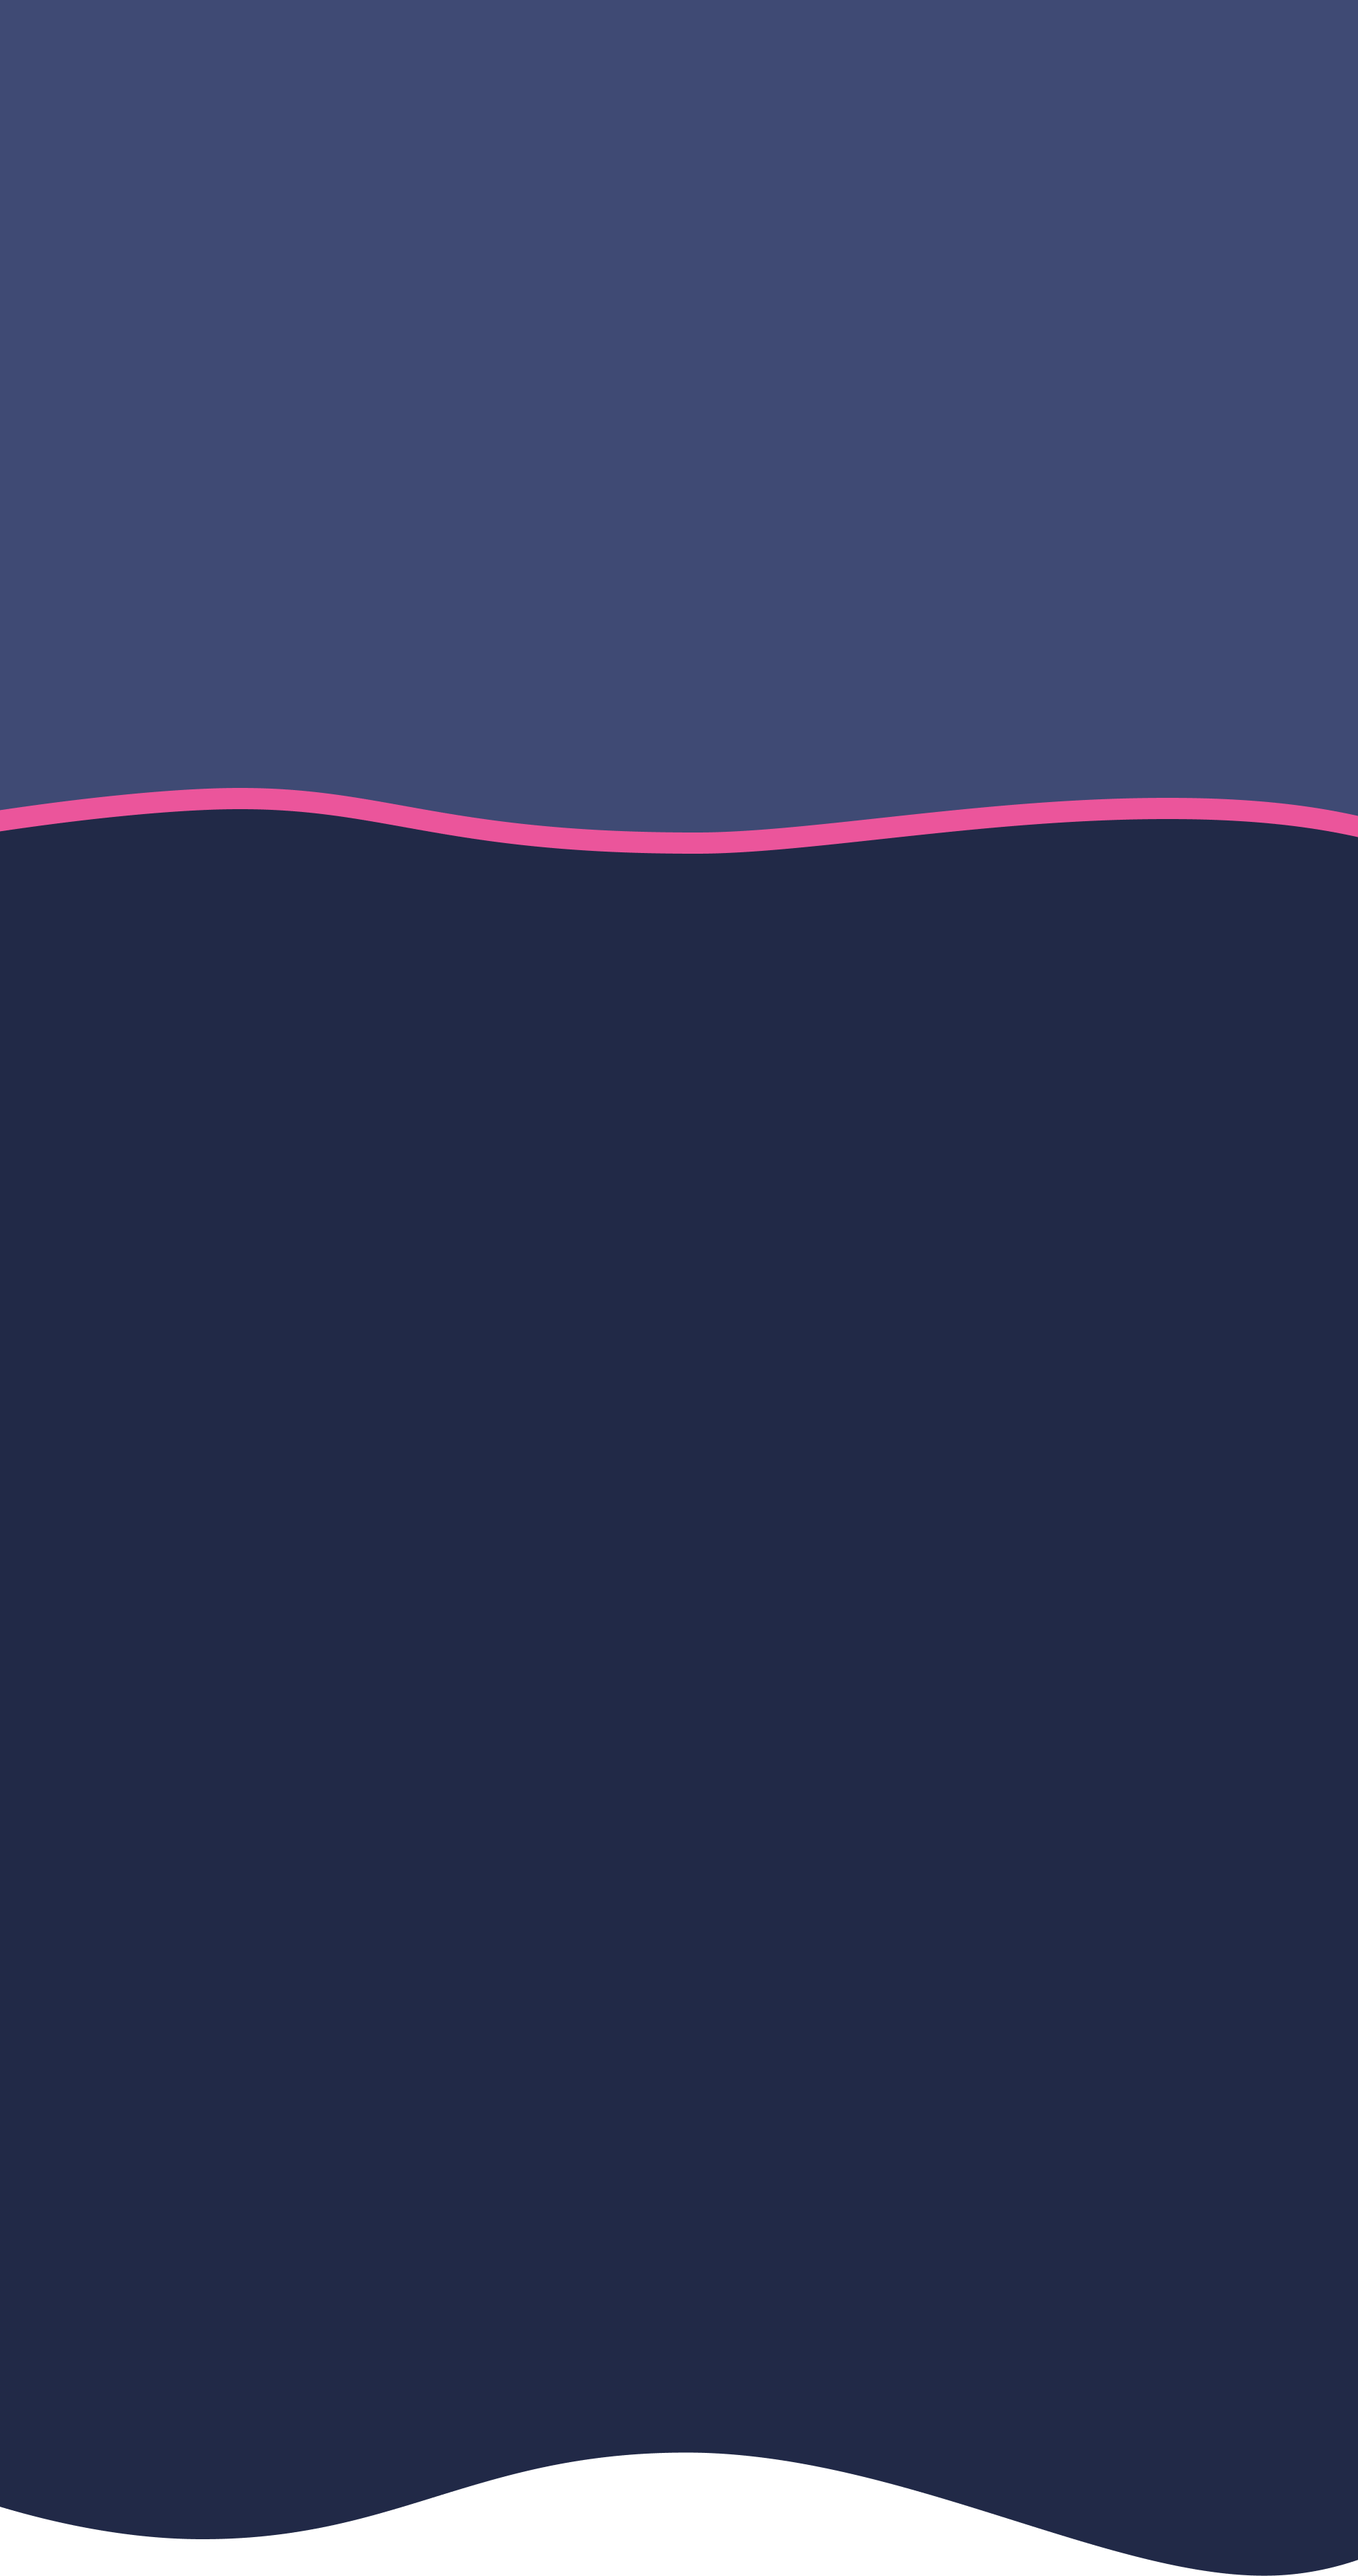
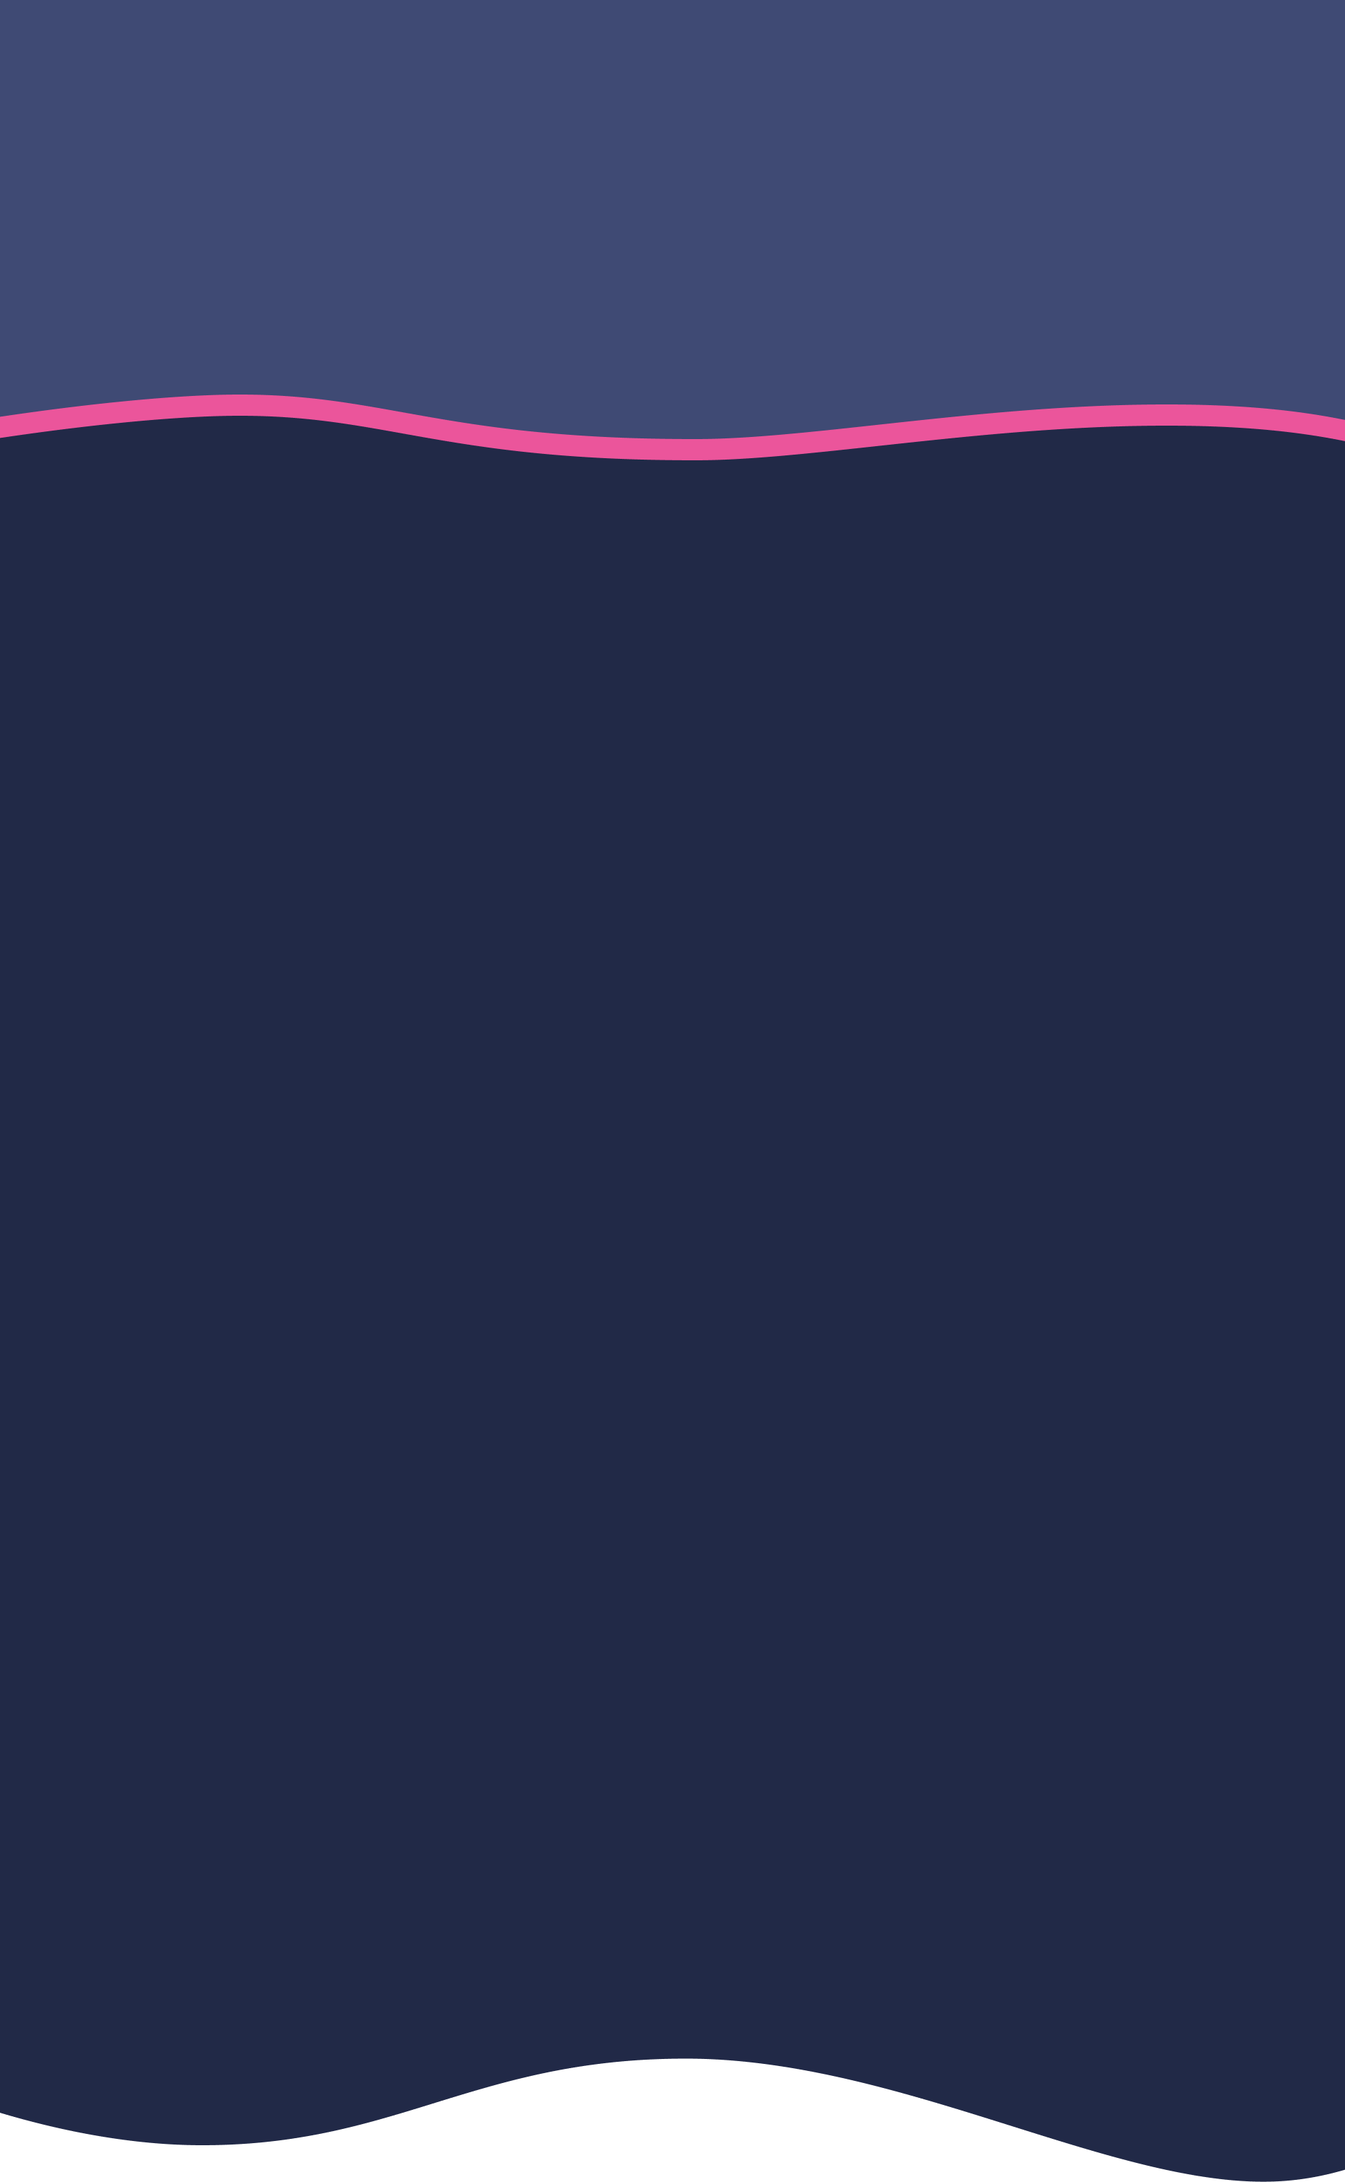
Landing Page almost finessed...
needs work on track overlay, responsiveness, and new buttons

diff --git a/frontend/src/app/landing-page/landing-page.component.html b/frontend/src/app/landing-page/landing-page.component.html
@@ -1,36 +1,45 @@
 <section class="section1">
   <div class="col-12 mb-5" style="text-align: left;">
-    <h1 class="ml-2">ARCC LEAGUE</h1>
+    <div class="row">
+      <img src="../../assets/images/ARCCLogo.svg" alt="" class="arcc">
+      <h1 class="ml-2">LEAGUE</h1>
+    </div>
   </div>
-  <div class="col-7 mt-5 ml-5">
-    <h1 class="top-title">TEST AND COMPETE IN THE REAL WORLD</h1>
-    <p class="top-content mb-5">Compete against other AWS DeepRacer times recorded in the real world. Upload your model, we’ll run it on our DeepRacer track, send you the video, and rank your time on our global leaderboard against other cars that have times in the physical world.</p>
-    <form>
-      <div class="col-5">
-        <div class="row">
-          <div class="col-8">
-            <div class="form-group">
-              <input type="email" class="form-control" id="email" aria-describedby="emailHelp" placeholder="Email">
+  <div class="row">
+    <div class="col-7 mt-5 ml-5">
+      <h1 class="top-title">TEST AND COMPETE IN THE REAL WORLD</h1>
+      <p class="top-content mb-5">Compete against other AWS DeepRacer times recorded in the real world. Upload your model, we’ll run it on our DeepRacer track, send you the video, and rank your time on our global leaderboard against other cars that have times in the physical world.</p>
+      <form>
+        <div class="col-5">
+          <div class="row">
+            <div class="col-8">
+              <div class="form-group">
+                <input type="email" class="form-control" id="email" aria-describedby="emailHelp" placeholder="Email">
+              </div>
+            </div>
+            <div class="col-4">
+              <button type="submit" class="btn btn-primary">Get Started</button>
             </div>
           </div>
-          <div class="col-4">
-            <button type="submit" class="btn btn-primary">Get Started</button>
-          </div>
         </div>
-      </div>
-    </form>
+      </form>
+    </div>
+    <div class="col-5">
+      <img src="../../assets/images/Track.svg" alt="" class="track">
+      <img src="../../assets/images/Car.svg" alt="" class="car">
+      <img src="../../assets/images/Computer.svg" alt="" class="computer"></div>
   </div>
-  <div class="col-5"></div>
   <img src="../../assets/images/Transition1.svg" class="transition1" alt="">
 </section>
 
 <section class="section2">
-  <div class="col-12">
+  <img src="../../assets/images/Transition1Overlay.png" alt="" class="tran1over">
+  <div class="col-11 mx-auto">
     <div class="row">
       <div class="col-6">
         <h1 class="top-title ml-5">Race your model on a real track, from home.</h1>
       </div>
-      <div class="col-6">
+      <div class="col-6" style="margin-top: 5%;">
         <p class="top-content mb-5">Unlike the AWS league, we test all of our cars in the real world to see their performance in a non-ideal world. Prepare for a DeepRacer summit or see how your car does out of the simulation by getting started.</p>
         <form>
           <div class="col-5">
@@ -53,10 +62,10 @@
 </section>
 
 <section class="section3">
-  <div class="col-12">
+  <div class="col-11 mx-auto">
     <div class="row">
       <div class="col-6">
-
+        <img src="../../assets/images/SafariDark.png" alt="" class="safari">
       </div>
       <div class="col-6">
         <h1 class="top-title">Upload. Watch. Compete.</h1>
@@ -69,10 +78,10 @@
 
 <section class="section4">
   <h1 class="top-title mt-5" style="text-align: center;">HOW IT WORKS</h1>
-  <div class="col-12">
+  <div class="col-11 mx-auto">
     <div class="row">
       <div class="col-6">
-
+        <img src="../../assets/images/Ex1.png" alt="">
       </div>
       <div class="col-6">
         <h1 class="top-title">Upload Your Trained Model.</h1>
@@ -80,21 +89,21 @@
       </div>
     </div>
   </div>
-  <div class="col-12">
+  <div class="col-11 mx-auto">
     <div class="row">
       <div class="col-6">
         <h1 class="top-title ml-5">We Evaluate Your Model and Stream it.</h1>
         <p class="top-content ml-5">We run your model on our physical DeepRacer track and stream the video to twitch. Watch your car live, or tune in later to see how it does.</p>
       </div>
       <div class="col-6">
-
+        <img src="../../assets/images/Ex2.png" alt="">
       </div>
     </div>
   </div>
-  <div class="col-12">
+  <div class="col-11 mx-auto">
     <div class="row">
       <div class="col-6">
-
+        <img src="../../assets/images/Ex3.png" alt="">
       </div>
       <div class="col-6">
         <h1 class="top-title">View Your Results on our Dashboard</h1>
@@ -106,7 +115,7 @@
 </section>
 
 <section class="section5">
-  <div class="col-12">
+  <div class="col-11 mx-auto">
     <div class="row">
       <div class="col-6 mb-5">
         <h1 class="top-title ml-5">Signup today and one model evaluation is on us.</h1>
@@ -133,7 +142,10 @@
 <section class="section6">
   <div class="row ml-5">
     <div class="col-4">
-      <h1>ARCC LEAGUE</h1>
+      <div class="row">
+        <img src="../../assets/images/ARCCLogo.svg" alt="" class="arcc2">
+        <h1 class="ml-2">LEAGUE</h1>
+      </div>
       <p>by ARCC</p>
     </div>
     <div class="col-4">

diff --git a/frontend/src/app/landing-page/landing-page.component.scss b/frontend/src/app/landing-page/landing-page.component.scss
@@ -1,5 +1,5 @@
 .top-title {
-  font-size: 6em;
+  font-size: 5em;
 }
 
 .top-content {
@@ -7,33 +7,30 @@
 }
 
 .transition1 {
-  z-index: -20;
-  postiton: absolute;
-  margin-top: -44%;
+  z-index: -10;
+  margin-top: -46%;
 }
 
 .transition2 {
-  z-index: -20;
-  postiton: absolute;
-  margin-top: -44%;
+  z-index: -10;
+  margin-top: -41%;
 }
 
 .transition3 {
-  z-index: -20;
-  postiton: absolute;
-  margin-top: -44%;
+  z-index: -30;
+  width: 100%;
+  margin-top: -16%;
 }
 
 .transition4 {
   z-index: -20;
-  postiton: absolute;
-  margin-top: -44%;
+  width: 100%;
+  margin-top: -53%;
 }
 
 .transition5 {
   z-index: -20;
-  postiton: absolute;
-  margin-top: -44%;
+  margin-top: -17%;
 }
 
 .section1 {
@@ -45,25 +42,74 @@
 .section2 {
   background-color: #212947;
   color: white;
-  margin-top: 16%;
+  margin-top: 10%;
 }
 
 .section3 {
   background-color: #3F4A74;
   color: white;
+  margin-top: -41%;
 }
 
 .section4 {
   background-color: #212947;
   color: white;
+  margin-top: -118%;
 }
 
 .section5 {
   background-color: #3F4A74;
   color: white;
+  margin-top: -38%;
 }
 
 .section6 {
   background-color: #212947;
   color: white;
+  margin-top: -15%;
 }
+
+.track {
+  z-index: 9;
+  position: absolute;
+  margin-left: 163%;
+  margin-top: -95%;
+}
+
+.car {
+  z-index: 10;
+  position: absolute;
+  margin-left: 167.4%;
+  margin-top: -54%;
+}
+
+.computer {
+  z-index: 9;
+  position: absolute;
+  margin-left: 195%;
+  margin-top: -58%;
+}
+
+.arcc {
+  width: 2%;
+  margin-right: 0.5%;
+  margin-left: 2%;
+}
+
+.arcc2 {
+  width: 5%;
+  margin-right: 0.5%;
+  margin-left: 2%;
+}
+
+.safari {
+  margin-top: 7%;
+}
+
+.tran1over {
+  z-index: 30;
+  position: absolute;
+  margin-top: -22%;
+}
+
+
